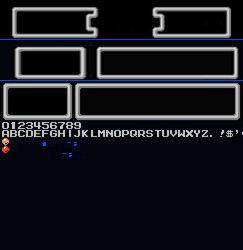
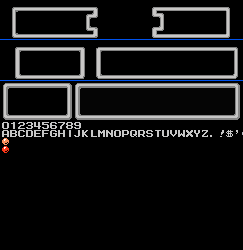
Updated Map and Hud, Placed Spawnables and their sprites

diff --git a/Loader.cpp b/Loader.cpp
@@ -518,14 +518,7 @@ Scrooge* Loader::load(std::string levelName)
 
         // CHESTS
 
-        new Block(QPointF(102*TILE, 37*TILE), TILE, TILE, Block::Type::CHEST_SMALL); //spawn torta
-        new Block(QPointF(103*TILE, 37*TILE), TILE, TILE, Block::Type::CHEST_SMALL); //spawn diamante rosso
-        new Block(QPointF(99*TILE, 32*TILE), TILE, TILE, Block::Type::CHEST_SMALL, true);
-        new Block(QPointF(100*TILE, 32*TILE), TILE, TILE, Block::Type::CHEST_SMALL, true);
-        new Block(QPointF(88*TILE, 2*TILE),  TILE, TILE,Block::Type::CHEST_SMALL);
-        new Block(QPointF(23*TILE, 61*TILE), TILE, TILE,Block::Type::CHEST_SMALL);
-        new Block(QPointF(9*TILE, 23*TILE), TILE, TILE,Block::Type::CHEST_SMALL, false, Spawnable::Type::CAKE);
-        new Block(QPointF(125*TILE, 6*TILE), 2*TILE, 2*TILE,Block::Type::CHEST_BIG);
+       
 
 
         // BATTERY
@@ -533,10 +526,8 @@ Scrooge* Loader::load(std::string levelName)
         new Block(QPointF(27*TILE, 38*TILE), TILE, TILE,Block::Type::BATTERY);
        
 
-        new Spawnable(QPointF(5*TILE, 67*TILE), 0.5*TILE, 0.5*TILE, Spawnable::Type::DIAMOND_YELLOW_SMALL);
-        new Spawnable(QPointF(44*TILE, 62*TILE), TILE, TILE, Spawnable::Type::STAR, 1);
-        new Spawnable(QPointF(59*TILE, 32*TILE), TILE, TILE, Spawnable::Type::DIAMOND_RED_BIG, 1);
-        new Spawnable(QPointF(56*TILE, 32*TILE), 0.5*TILE, 0.5*TILE, Spawnable::Type::DIAMOND_YELLOW_SMALL, 1);
+        
+    
 
 
         // TELECOMANDO PER ATTIVARE GIZMODUCK
@@ -559,7 +550,7 @@ Scrooge* Loader::load(std::string levelName)
         new StaticObject(QPointF(55*TILE, 57*TILE), 2*TILE, 0.5*TILE, StaticObject::Activator::CAMERA);
         new StaticObject(QPointF(23*TILE, 55*TILE), 2*TILE, 0.5*TILE, StaticObject::Activator::CAMERA);
         new StaticObject(QPointF(55*TILE, 42*TILE), 2*TILE, 1*TILE, StaticObject::Activator::CAMERA);
-        new StaticObject(QPointF(23*TILE, 27*TILE), 2*TILE, 1*TILE, StaticObject::Activator::CAMERA);
+        new StaticObject(QPointF(23*TILE, 25*TILE), 2*TILE, 1*TILE, StaticObject::Activator::CAMERA);
         new StaticObject(QPointF(87*TILE, 28*TILE), 2*TILE, 1*TILE, StaticObject::Activator::CAMERA);
         new StaticObject(QPointF(87*TILE, 42*TILE), 2*TILE, 1*TILE, StaticObject::Activator::CAMERA);
         new StaticObject(QPointF(87*TILE, 14*TILE), 2*TILE, 1*TILE, StaticObject::Activator::CAMERA);
@@ -567,7 +558,50 @@ Scrooge* Loader::load(std::string levelName)
         new StaticObject(QPointF(55*TILE, 12*TILE), 2*TILE, 1*TILE, StaticObject::Activator::CAMERA);
 
 
+                //posizione di tutti gli spawnables
+        new Spawnable(QPointF(16*TILE, 63*TILE), TILE, TILE, Spawnable::Type::STAR, 1);
+        new Spawnable(QPointF(43*TILE, 63*TILE), TILE, TILE, Spawnable::Type::ICE_CREAM, 1);
+        new Spawnable(QPointF(45*TILE, 63*TILE), TILE, TILE, Spawnable::Type::ICE_CREAM, 1);
+        new Spawnable(QPointF(124*TILE, 78*TILE), TILE, TILE, Spawnable::Type::ICE_CREAM, 1);
+        new Spawnable(QPointF(125*TILE, 78*TILE), TILE, TILE, Spawnable::Type::ICE_CREAM, 1);
+        new Spawnable(QPointF(6*TILE, 33*TILE), TILE, TILE, Spawnable::Type::DIAMOND_YELLOW_BIG, 1);
+        new Spawnable(QPointF(61*TILE, 34*TILE), 0.5*TILE, 0.5*TILE, Spawnable::Type::DIAMOND_YELLOW_SMALL, 1);
+        new Spawnable(QPointF(71*TILE, 34*TILE), TILE, TILE, Spawnable::Type::DIAMOND_YELLOW_BIG, 1);
+        new Spawnable(QPointF(73*TILE, 34*TILE), TILE, TILE, Spawnable::Type::DIAMOND_YELLOW_BIG, 1);
+        new Spawnable(QPointF(95*TILE, 21*TILE), TILE, TILE, Spawnable::Type::DIAMOND_YELLOW_BIG, 1);
+        new Spawnable(QPointF(97*TILE, 21*TILE), TILE, TILE, Spawnable::Type::DIAMOND_YELLOW_BIG, 1);
+        new Spawnable(QPointF(99*TILE, 21*TILE), TILE, TILE, Spawnable::Type::DIAMOND_YELLOW_BIG, 1);
+        new Spawnable(QPointF(73*TILE, 18*TILE), TILE, TILE, Spawnable::Type::ICE_CREAM, 1);
+        new Spawnable(QPointF(77*TILE, 18*TILE), TILE, TILE, Spawnable::Type::ICE_CREAM, 1);
+        new Spawnable(QPointF(28*TILE, 33*TILE), TILE, TILE, Spawnable::Type::DIAMOND_YELLOW_BIG, 1);
+        new Spawnable(QPointF(60*TILE, 33*TILE), TILE, TILE, Spawnable::Type::DIAMOND_YELLOW_BIG, 1);
+        new Spawnable(QPointF(95*TILE, 45*TILE), TILE, TILE, Spawnable::Type::DIAMOND_YELLOW_BIG, 1);
+        
 
+
+
+
+
+
+
+
+
+
+        new Block(QPointF(6*TILE, 35*TILE), TILE, TILE, Block::Type::CHEST_SMALL, false, Spawnable::Type::DIAMOND_RED_BIG);
+        new Block(QPointF(9*TILE, 47*TILE), TILE, TILE, Block::Type::CHEST_SMALL, false, Spawnable::Type::DIAMOND_RED_BIG);
+        new Block(QPointF(10*TILE, 47*TILE), TILE, TILE, Block::Type::CHEST_SMALL, false, Spawnable::Type::CAKE);
+        new Block(QPointF(23.5*TILE, 46*TILE), TILE, TILE, Block::Type::CHEST_SMALL, false, Spawnable::Type::DIAMOND_YELLOW_BIG);
+        new Block(QPointF(101*TILE, 47*TILE), TILE, TILE, Block::Type::CHEST_SMALL, false, Spawnable::Type::DIAMOND_RED_BIG);
+        new Block(QPointF(102*TILE, 47*TILE), TILE, TILE, Block::Type::CHEST_SMALL, false, Spawnable::Type::DIAMOND_YELLOW_BIG);
+        new Block(QPointF(102*TILE, 37*TILE), TILE, TILE, Block::Type::CHEST_SMALL, true, Spawnable::Type::CAKE);
+        new Block(QPointF(103*TILE, 37*TILE), TILE, TILE, Block::Type::CHEST_SMALL, true, Spawnable::Type::DIAMOND_RED_BIG);
+        new Block(QPointF(99*TILE, 32*TILE), TILE, TILE, Block::Type::CHEST_SMALL, true, Spawnable::Type::DIAMOND_RED_BIG);
+        new Block(QPointF(100*TILE, 32*TILE), TILE, TILE, Block::Type::CHEST_SMALL, true, Spawnable::Type::DIAMOND_RED_BIG);
+        new Block(QPointF(9*TILE, 23*TILE), TILE, TILE, Block::Type::CHEST_SMALL, false, Spawnable::Type::KEY);
+        new Block(QPointF(2*TILE, 88*TILE), TILE, TILE, Block::Type::CHEST_SMALL, false, Spawnable::Type::DIAMOND_RED_BIG);
+        new Block(QPointF(23*TILE, 62*TILE), TILE, TILE, Block::Type::CHEST_SMALL, false, Spawnable::Type::DIAMOND_YELLOW_BIG);
+        new Block(QPointF(24*TILE, 62*TILE), TILE, TILE, Block::Type::CHEST_SMALL, false, Spawnable::Type::DIAMOND_YELLOW_BIG);
+        new Block(QPointF(125*TILE, 6*TILE), 2*TILE, 2*TILE,Block::Type::CHEST_BIG,true, Spawnable::Type::TREASURE);
 
         new Rat(QPointF(72 * TILE - 39/2, 80* TILE));
 

diff --git a/Spawnable.cpp b/Spawnable.cpp
@@ -100,6 +100,12 @@ bool Spawnable::animate() // Da aggiungere animazione di spawning e metodo migli
     } else if (_type == Type::PROJECTILE && taken) {
         _animRect = & _texture_spawnable[(FRAME_COUNT / 9) % 2 + 2]; // +2 così alterna indce 2 e 3
       }
+     else if (_type == Type::ICE_CREAM) {
+      _animRect = & _texture_spawnable[0];
+    } else if (_type==Type::TREASURE){
+
+        _animRect=&_texture_spawnable[0];
+    } 
 
   } else {
     _animRect = & _texture_spawnable[Qt::transparent];
